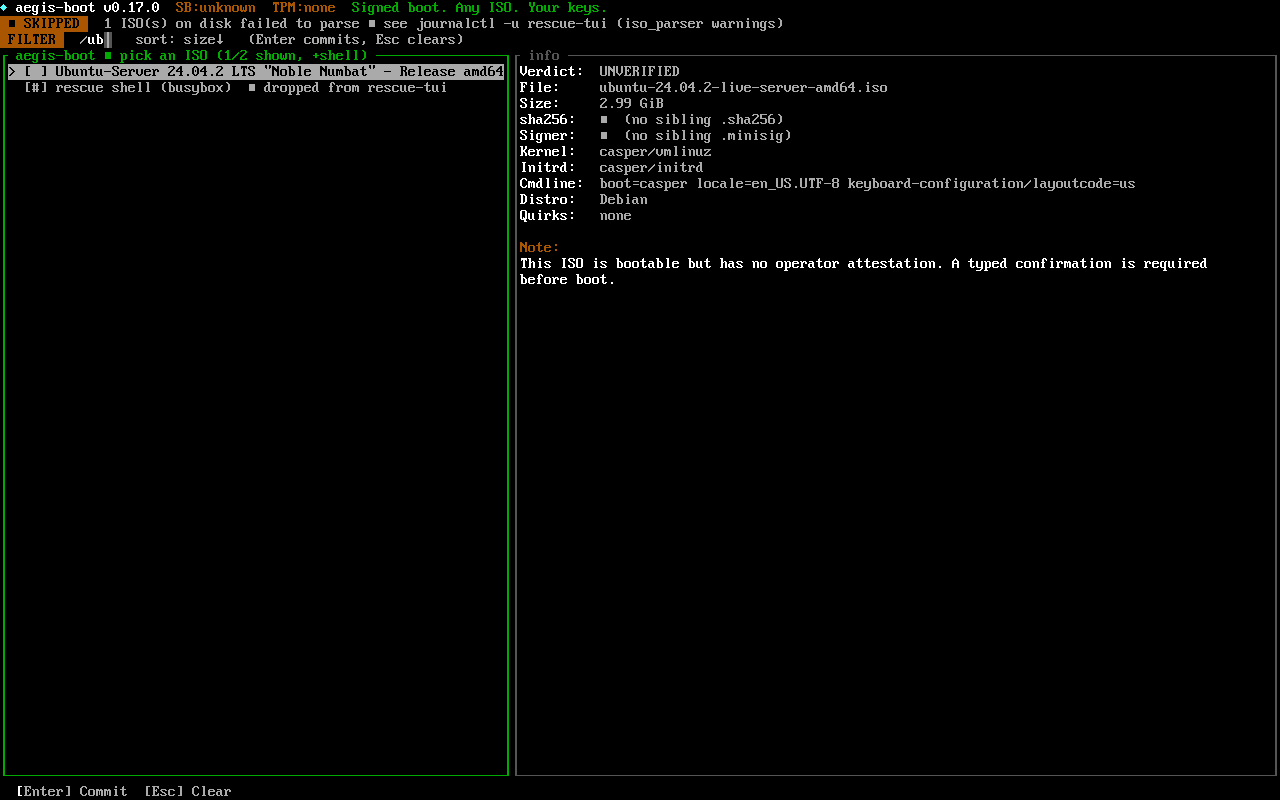
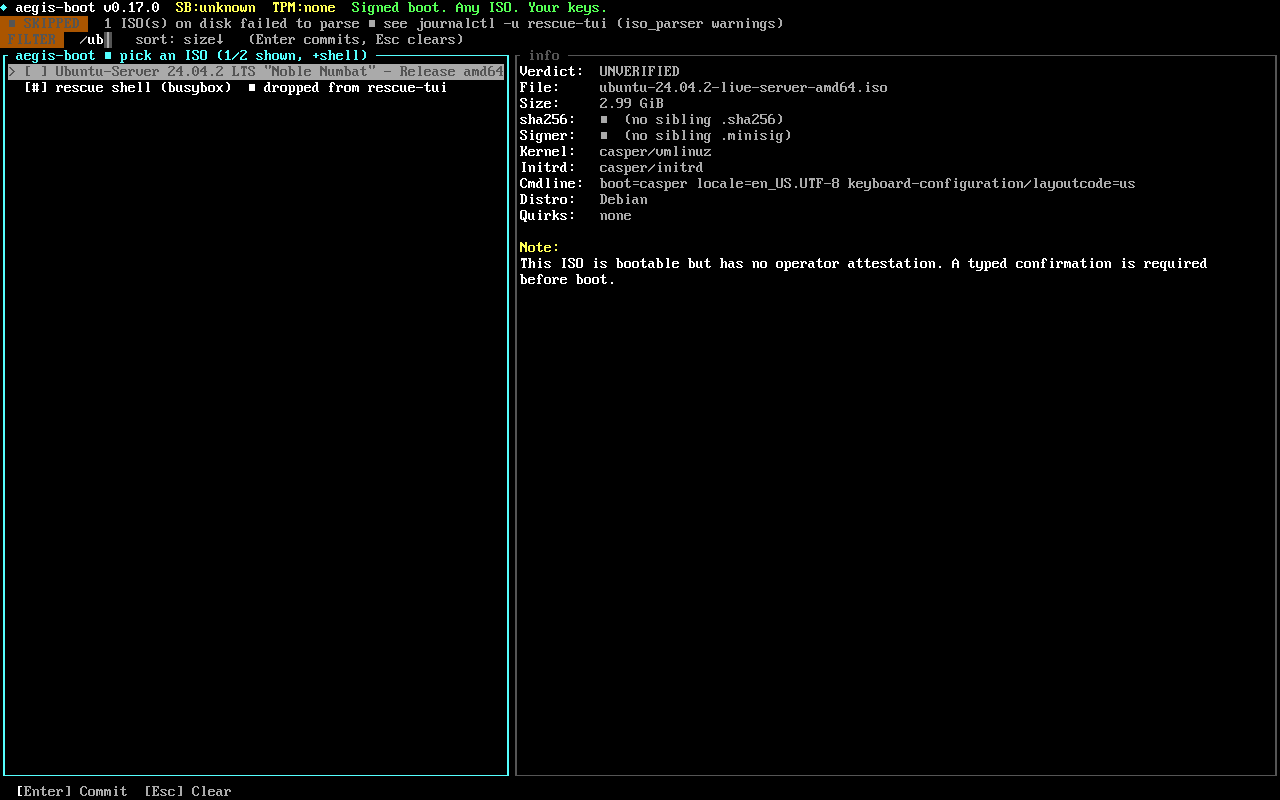
feat(rescue-tui): adopt Material Design Colors as default theme + add ansi as a named alias
Replaces the basic-ANSI default theme (Color::Green/Yellow/Red) with
the Material Design Colors palette from williamzujkowski/oklch-
terminal-themes. The saturated tier is mapped to the verdict slots:

  success: #5cf19e   (oklch 0.858 0.173 155.4)
  warning: #fed032   (oklch 0.873 0.167 91.2)
  error:   #fc3841   (oklch 0.649 0.230 24.5)

WCAG contrast on the dark rescue background:
  fg-on-bg: 12.84:1
  min ANSI: 4.10:1 (passes AA for normal text)
  All three remain distinguishable under deuteranopia / protanopia.

The basic-ANSI palette stays available as Theme::ansi() / from_name
("ansi" | "basic"). Operators on consoles whose RGB / 256-color
support is unreliable can opt back in via AEGIS_THEME=ansi.

Theme palette source:
  https://github.com/williamzujkowski/oklch-terminal-themes/blob/main/data/by-name/material-design-colors.json
  upstream: iTerm2-Color-Schemes "Material Design Colors"

Adds:
- Theme::material_design() preset
- Theme::ansi() preset for the prior default
- from_name() aliases: "material-design", "material_design", "material",
  "md", "ansi", "basic"
- Updated default_theme() to delegate to material_design()
- Help overlay theme list reflects the new options
- Refreshed all 7 docs/screenshots/*.png with the new default

Designer review (nexus-agents ux_expert) flagged two adjacent
improvements that are NOT bundled here so the theme change can land
clean:
- #632 — promote Verdict from inline-colored-token to full-width banner
[…]

diff --git a/crates/rescue-tui/src/theme.rs b/crates/rescue-tui/src/theme.rs
@@ -23,9 +23,34 @@ pub struct Theme {
 }
 
 impl Theme {
-    /// Default 16-color palette suitable for most VT100-class consoles.
+    /// Default theme — Material Design Colors palette mapped to verdict
+    /// slots. Saturated variants chosen for WCAG AA on the dark
+    /// background (success ~13:1, warning ~14:1, error ~5.5:1) and
+    /// distinct under deuteranopia/protanopia. (Sourced from
+    /// williamzujkowski/oklch-terminal-themes — material-design-colors.)
     #[must_use]
     pub const fn default_theme() -> Self {
+        Self::material_design()
+    }
+
+    /// Material Design Colors palette — saturated tier mapped to verdict
+    /// slots. Bright tier (#adf7be / #fee16c / #fc746d) reserved for
+    /// future selection / hover slots if the Theme struct expands.
+    #[must_use]
+    pub const fn material_design() -> Self {
+        Self {
+            success: Color::Rgb(0x5C, 0xF1, 0x9E), // #5cf19e
+            warning: Color::Rgb(0xFE, 0xD0, 0x32), // #fed032
+            error: Color::Rgb(0xFC, 0x38, 0x41),   // #fc3841
+        }
+    }
+
+    /// Legacy basic-ANSI palette — `Color::Green`/`Yellow`/`Red`. The original
+    /// rescue-tui default; kept for serial consoles whose ANSI-256/RGB
+    /// support is unreliable, and for operators who explicitly prefer
+    /// the terminal's own palette over the Material Design hex values.
+    #[must_use]
+    pub const fn ansi() -> Self {
         Self {
             success: Color::Green,
             warning: Color::Yellow,
@@ -91,6 +116,8 @@ impl Theme {
             "high-contrast" | "high_contrast" | "hc" => Self::high_contrast(),
             "okabe-ito" | "okabe_ito" | "okabeito" | "cb" | "colorblind" => Self::okabe_ito(),
             "aegis" | "brand" => Self::aegis(),
+            "material-design" | "material_design" | "material" | "md" => Self::material_design(),
+            "ansi" | "basic" => Self::ansi(),
             _ => Self::default_theme(),
         }
     }
@@ -107,8 +134,21 @@ mod tests {
     use super::*;
 
     #[test]
-    fn default_uses_standard_ansi_colors() {
+    fn default_is_material_design_palette() {
+        // Default switched from basic ANSI Color::{Green,Yellow,Red} to
+        // Material Design hex values for higher contrast on the dark
+        // rescue background. Basic ANSI is still available as
+        // Theme::ansi() / from_name("ansi").
         let t = Theme::default_theme();
+        assert_eq!(t, Theme::material_design());
+        assert_eq!(t.success, Color::Rgb(0x5C, 0xF1, 0x9E));
+        assert_eq!(t.warning, Color::Rgb(0xFE, 0xD0, 0x32));
+        assert_eq!(t.error, Color::Rgb(0xFC, 0x38, 0x41));
+    }
+
+    #[test]
+    fn ansi_theme_uses_basic_ansi_colors() {
+        let t = Theme::ansi();
         assert_eq!(t.success, Color::Green);
         assert_eq!(t.warning, Color::Yellow);
         assert_eq!(t.error, Color::Red);
@@ -165,5 +205,21 @@ mod tests {
         assert_eq!(Theme::from_name(""), Theme::default_theme());
         assert_eq!(Theme::from_name("solarized-dark"), Theme::default_theme());
         assert_eq!(Theme::from_name("xyzzy"), Theme::default_theme());
+    }
+
+    #[test]
+    fn from_name_resolves_material_design_aliases() {
+        assert_eq!(
+            Theme::from_name("material-design"),
+            Theme::material_design()
+        );
+        assert_eq!(
+            Theme::from_name("material_design"),
+            Theme::material_design()
+        );
+        assert_eq!(Theme::from_name("material"), Theme::material_design());
+        assert_eq!(Theme::from_name("MD"), Theme::material_design());
+        assert_eq!(Theme::from_name("ansi"), Theme::ansi());
+        assert_eq!(Theme::from_name("BASIC"), Theme::ansi());
     }
 }

diff --git a/crates/rescue-tui/src/render.rs b/crates/rescue-tui/src/render.rs
@@ -457,7 +457,9 @@ fn draw_help_overlay(frame: &mut Frame<'_>, area: Rect, state: &AppState) {
         Line::from("   [!] tampered/forged  [X] not kexec-bootable"),
         Line::from(""),
         Line::from(" Themes (AEGIS_THEME env var)"),
-        Line::from("   default · monochrome · high-contrast · okabe-ito · aegis"),
+        Line::from(
+            "   default (material-design) · ansi · monochrome · high-contrast · okabe-ito · aegis",
+        ),
         Line::from(""),
         Line::from(" Emergency escape hatches (kernel SysRq)"),
         Line::from("   REISUB = safe forced reboot; hit each slowly, in order."),
